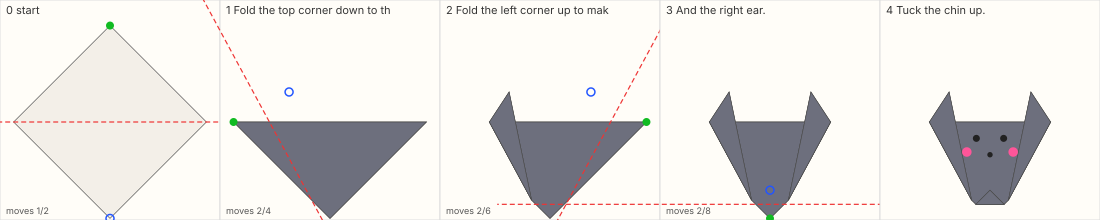
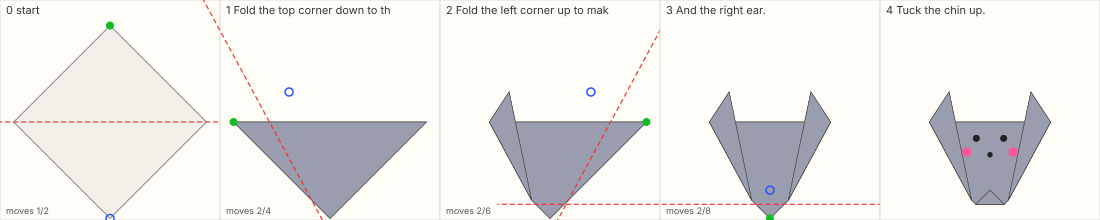
Add hub/free/daily/settings smoke test; lighter kitten paper
The grey kitten disappeared against the green mat and its eyes didn't read.

Claude-Session: https://claude.ai/code/session_01U8xADRmsiDqpYXZKA8wsS6

diff --git a/src/fold/models/faces.ts b/src/fold/models/faces.ts
@@ -44,7 +44,7 @@ export const cat: ModelDef = {
   id: 'cat',
   name: 'Kitten',
   blurb: 'Curious about everything you do.',
-  paper: { w: S, h: S, front: '#6d6f7d', back: '#f3efe8', pattern: 'stripes' },
+  paper: { w: S, h: S, front: '#9a9dae', back: '#f3efe8', pattern: 'stripes' },
   start: 'back',
   startAngle: Math.PI / 4,
   steps: [

diff --git a/README.md b/README.md
@@ -142,6 +142,8 @@ jitter.
   tosses the plane into the book, places and sails the boat by waving, dips and pours the cup, fans
   the windmill, gives the heart, turns every page and opens the final letter, then saves screenshots
   under `test-results/`. The full run (prologue to hub) passes with no console errors.
+- `node scripts/e2e/modes.mjs`: pokes through the hub with an emulated fingertip into Free fold
+  (the puppy), the Daily fold and Settings, and checks the save data, the desk shelf and the streak.
 - `node scripts/e2e/perf.mjs`: draw calls and triangles per scene in an emulated session. The busiest
   scene (the garden spread) is about 170 draw calls and 25k triangles per frame for both eyes,
   including the shadow pass. Most scenes are lower.
